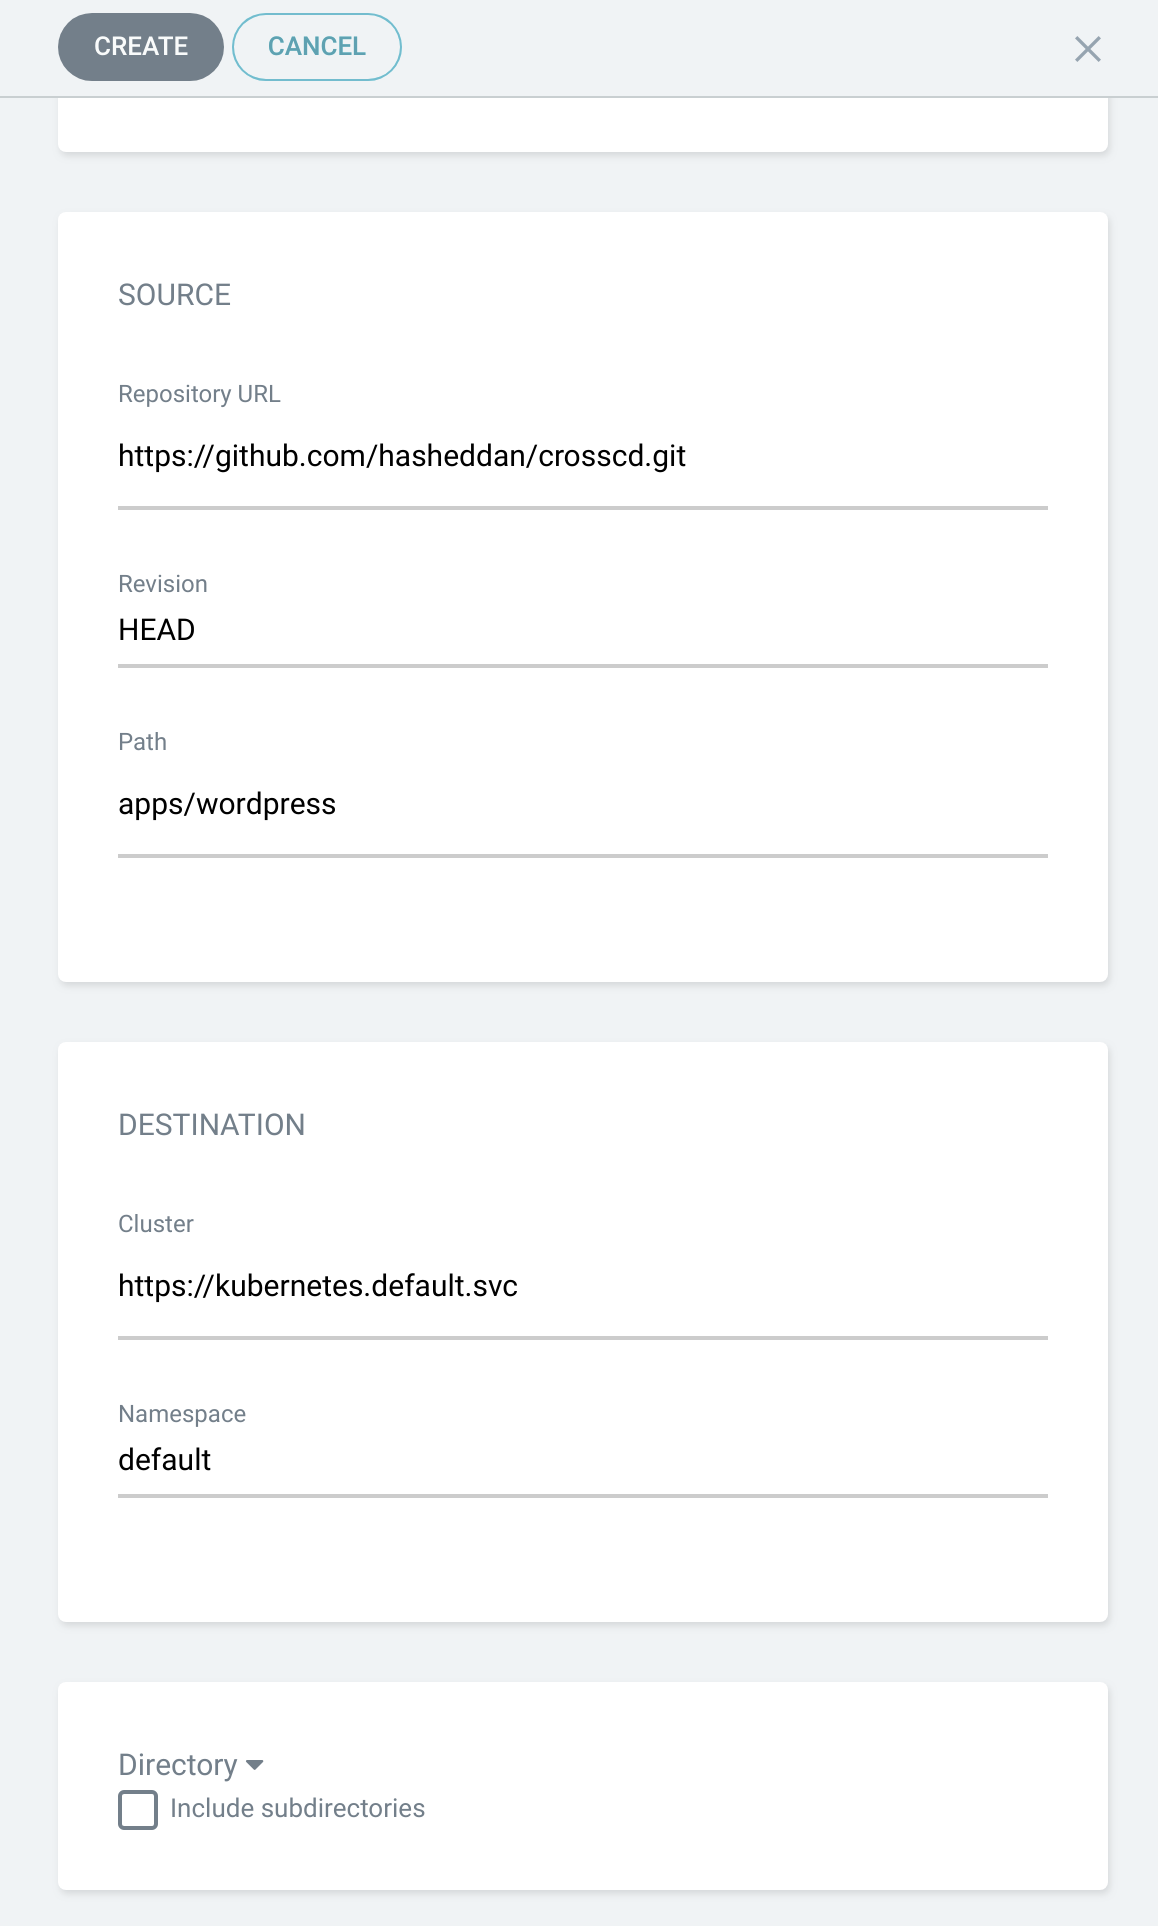
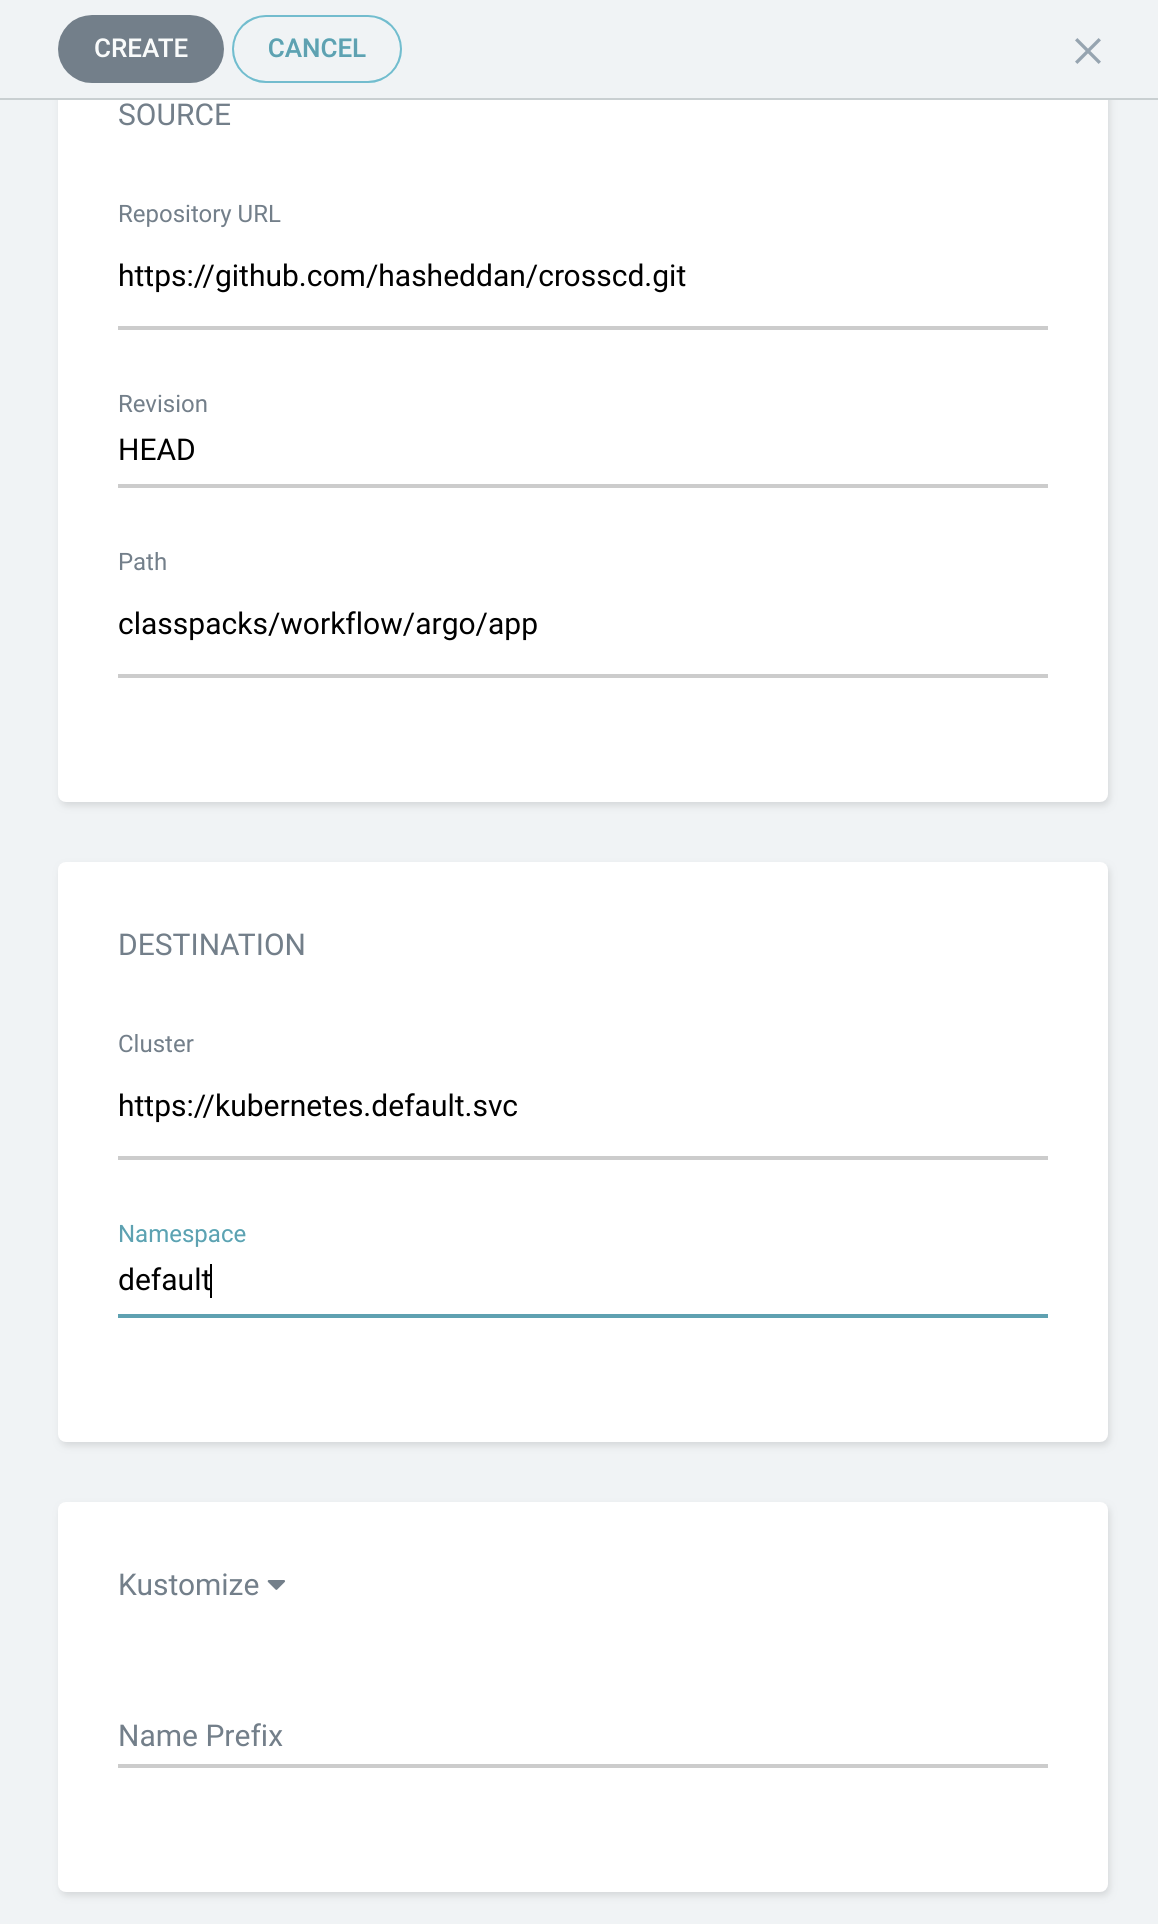
docs: address comments on ArgoCD guide

diff --git a/docs/workflow/argocd.md b/docs/workflow/argocd.md
@@ -33,6 +33,7 @@ application that consumes cloud provider resources.
        Applications](#create-an-argocd-project-for-applications)
     1. [Configure an ArgoCD Application](#configure-an-argocd-application)
     1. [Deploy](#deploy)
+1. [Customizing](#customizing)
 1. [Clean Up](#clean-up)
 1. [Next Steps](#next-steps)
 
@@ -61,8 +62,8 @@ insecure connections] on localhost to utilize port-forwarding.*
 ### Install Crossplane Components
 
 For this guide we will assume that an organization wants to enable provisioning
-of managed service on [GCP], [AWS], and [Azure]. To install Crossplane along
-with the GCP, AWS, and Azure stacks, please see the [installation guide].
+of managed service on [GCP] and [AWS]. To install Crossplane along with the GCP
+and AWS, please see the [installation guide].
 
 ## Set Up an Infrastructure Pipeline
 
@@ -109,23 +110,30 @@ and [Azure provider] configuration guides. If you are not planning on deploying
 resources on any of the three platforms, you are welcome to skip the setup of a
 `Provider` for its stack.
 
-Now we need to set up a `dev` and `prod` environment in our `infra` project. To
-do so, go to `Applications > New Application` and configure as shown below or as
-appropriate with your repository:
+Now we need to set up `dev` and `prod` environment resources for GCP in our
+`infra` project. To do so, go to `Applications > New Application` and configure
+as shown below or as appropriate with your repository:
 
-![alt argo-infra-dev-app-1](argo-infra-dev-app-1.png)
+![alt argo-infra-app-1](argo-infra-dev-app-1.png)
 
-![alt argo-infra-dev-app-2](argo-infra-dev-app-2.png)
+![alt argo-infra-app-2](argo-infra-dev-app-2.png)
 
 After creating the application, you should see healthy status and a
 visualization of all resources that were created:
 
-![alt argo-infra-dev-app-viz](argo-infra-dev-app-viz.png)
+![alt argo-infra-app-viz](argo-infra-dev-app-viz.png)
 
-After setting up the `dev` application, do the same for `prod` specifying the
-`prod` directory where `dev` was used above. On creation of the applications,
-they should automatically sync and deploy any infrastructure configuration you
-have defined in your repository.
+You will notice that resource classes have both a `dev` and `prod` version
+created, while the network resources (i.e. `Network`, `Subnetwork`,
+`GlobalAddress`, `Connection`) have only one version and it is a managed
+resource. These resources do not support dynamic provisioning and do not have
+tiers appropriate for only development or only production. Therefore, they are
+being statically provisioned and can be referenced by either the `dev` or `prod`
+versions of the resource classes created.
+
+If you would like to enable provisioning resources on AWS as well, follow the
+same steps to set up an ArgoCD application that is pointed at the [AWS
+infrastructure directory].
 
 ## Set Up an Application Pipeline
 
@@ -137,7 +145,7 @@ create pipelines to deploy applications that utilize those cloud services.
 Either choose an existing application repository or create a new one. The
 repository should include claims that can be resolved by the environment classes
 we created. If you want to use an example application, you can use Wordpress in
-[this repository]  !! TODO !!.
+[this repository].
 
 ### Create an ArgoCD Project for Applications
 
@@ -164,9 +172,35 @@ After creation of the application, you should see all resources appear in the
 visualization. You can click on the `Service` resource to get the external IP
 address of the Wordpress application when it becomes available.
 
-!! TODO !! Wordpress deployment picture here
+![alt argo-wordpress-service](argo-wordpress-service.png)
 
 If you navigate to the IP address, you should see the Wordpress start page.
+
+![alt argo-wordpress-landing](argo-wordpress-landing.png)
+
+## Customizing
+
+We have successfully deployed Wordpress on GCP with `dev` tier infrastructure.
+However, it may be desireable to provision on `prod` tier infrastructure, or
+even a different cloud provider. Assuming you also set up AWS infrastructure
+configuration in the [infrastructure](#configure-dev-and-prod-environments)
+section above, this can be accomplished with simple changes to the Wordpress
+deployment configuration. The resource claims use label selectors to be
+scheduled to a certain class. If you take a look at [the patch in our
+application configuration][app-patch], you will notice the following stanza:
+
+```yaml
+ classSelector:
+    matchLabels:
+      env: dev
+      provider: gcp
+```
+
+Simply changing these labels to `env: prod` or `provider: aws` will cause the
+resources to be provisioned on production tier infrastructure or on AWS instead
+of GCP! Furthermore, if you would like more granular options for deploying
+infrastructure, you can customize the labels on the resource classes that were
+created to include any other distinguishing traits.
 
 ## Clean Up
 
@@ -183,11 +217,12 @@ application and those resources will be removed from your cluster.
 [installation guide]: install-crossplane.md
 [GCP]: https://cloud.google.com/
 [AWS]: https://aws.amazon.com/
-[Azure]: https://azure.microsoft.com/en-us/
 
 [projects]: https://argoproj.github.io/argo-cd/operator-manual/declarative-setup/#projects
 [applications]: https://argoproj.github.io/argo-cd/operator-manual/declarative-setup/#applications
 [secrets management integrations]: https://argoproj.github.io/argo-cd/operator-manual/secret-management/
 [GCP provider]: cloud-providers/gcp/gcp-provider.md
 [AWS provider]: cloud-providers/aws/aws-provider.md
-[this repository]: https://github.com/hasheddan/crosscd
+[this repository]: https://github.com/hasheddan/crosscd/tree/master/classpacks/workflow/argo
+[app-patch]: https://github.com/hasheddan/crosscd/blob/master/classpacks/workflow/argo/app/patch.yaml
+[AWS infrastructure directory]: https://github.com/hasheddan/crosscd/tree/master/classpacks/workflow/argo/infra/aws

diff --git a/docs/workflow.md b/docs/workflow.md
@@ -1,5 +1,5 @@
 ---
-title: "Workflow"
+title: "CD Workflow"
 toc: true
 weight: 590
 indent: false
